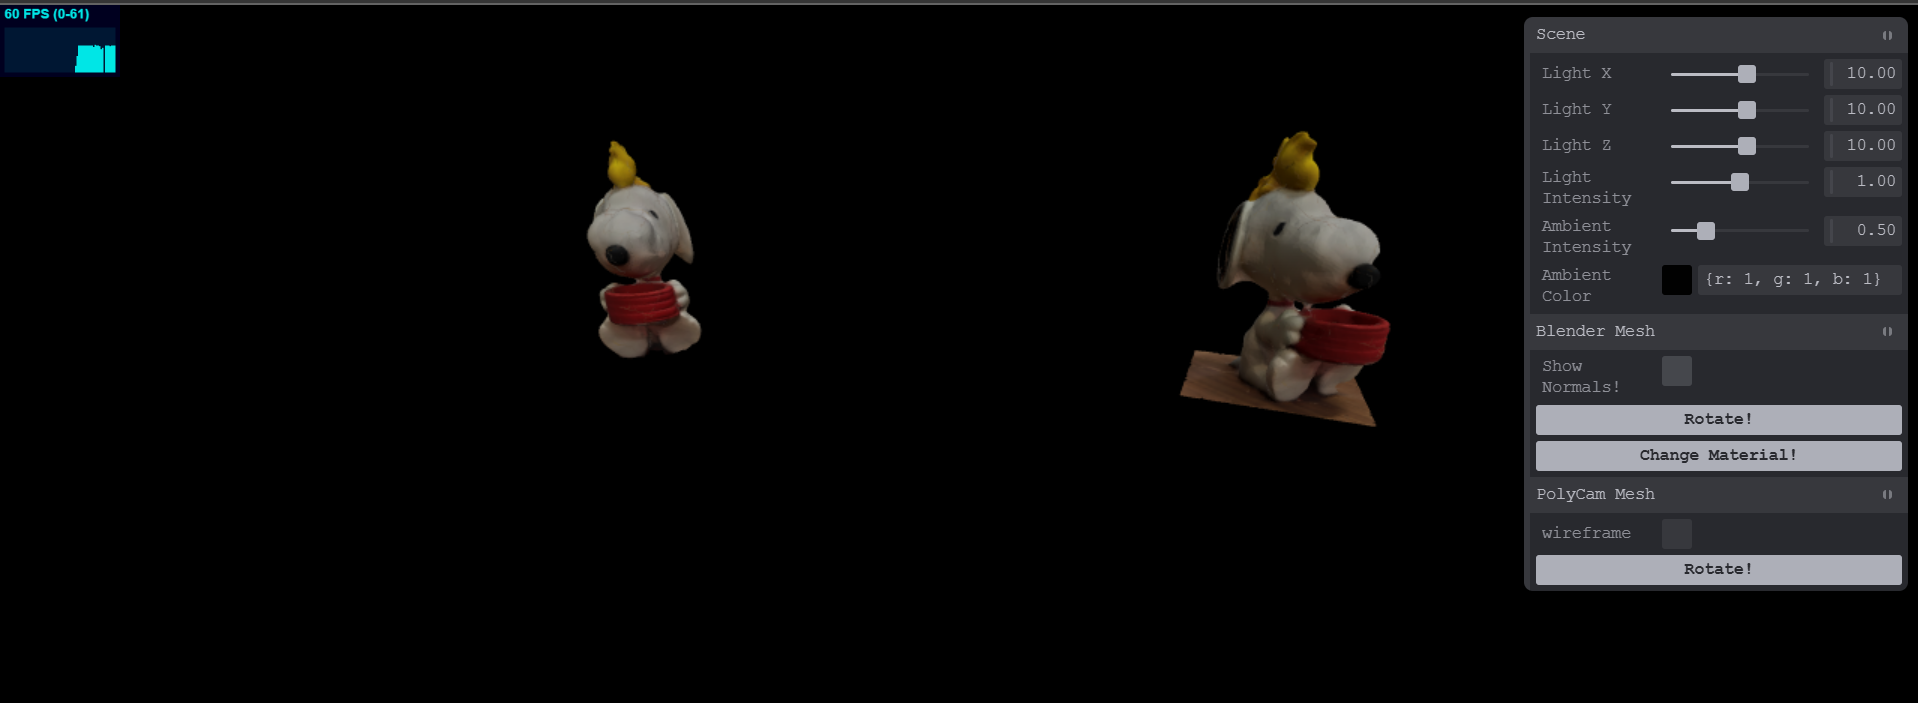
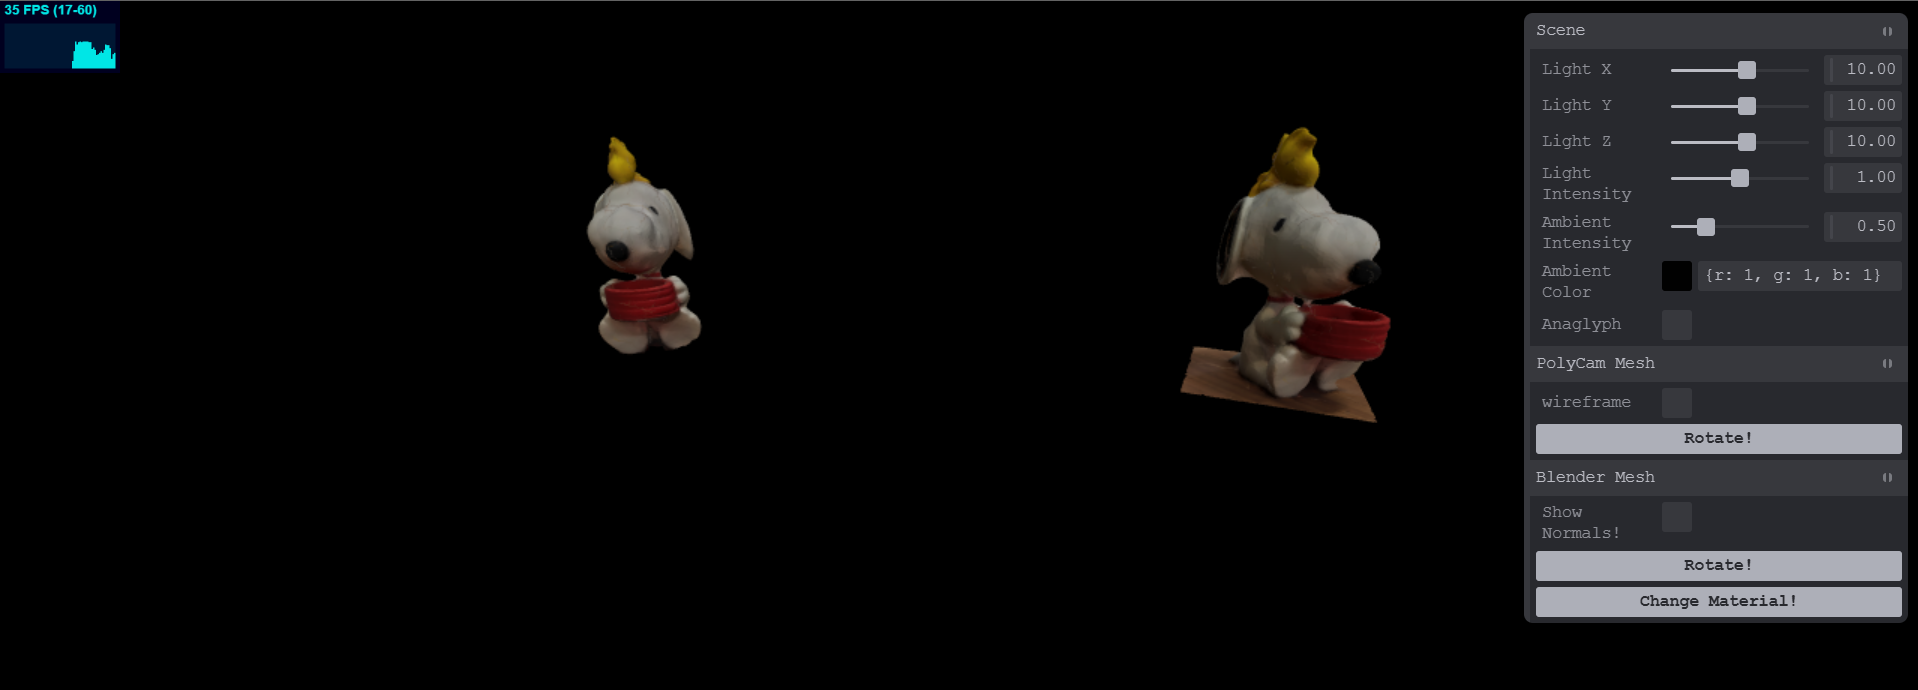
If applied, this commit will fix the issues

diff --git a/05/index.html b/05/index.html
@@ -34,13 +34,16 @@
         import { GLTFLoader } from 'three/addons/loaders/GLTFLoader.js';
         import { Pane } from 'https://cdn.jsdelivr.net/npm/tweakpane@4.0.5/dist/tweakpane.min.js';
         import { VertexNormalsHelper } from 'three/addons/helpers/VertexNormalsHelper.js';
+        import { AnaglyphEffect } from 'three/addons/effects/AnaglyphEffect.js';
 
-        let scene, camera, renderer, controls, stats;
+        let scene, camera, renderer, controls, stats, anaglyphEffect;
 
         stats = new Stats();
         document.body.appendChild(stats.domElement);
 
+        // Scene settings
         window['SCENE'] = {
+            'anaglyph': false, // Default state for anaglyph rendering
             'original': null,
             'rotate_original': false,
             'original_target_angle': 0,
@@ -69,8 +72,10 @@
         };
 
         window.onload = function () {
+            // Initialize the Scene
             scene = new THREE.Scene();
 
+            // Camera
             const fov = 75;
             const aspect = window.innerWidth / window.innerHeight;
             const near = 0.1;
@@ -78,12 +83,19 @@
             camera = new THREE.PerspectiveCamera(fov, aspect, near, far);
             camera.position.set(75, 75, 150);
 
+            // Renderer
             renderer = new THREE.WebGLRenderer({ antialias: true });
             renderer.setSize(window.innerWidth, window.innerHeight);
             document.body.appendChild(renderer.domElement);
 
+            // Anaglyph Effect
+            anaglyphEffect = new AnaglyphEffect(renderer);
+            anaglyphEffect.setSize(window.innerWidth, window.innerHeight);
+
+            // Controls
             controls = new OrbitControls(camera, renderer.domElement);
 
+            // Lighting
             const ambientLight = new THREE.AmbientLight(0xffffff, 0.5);
             scene.add(ambientLight);
 
@@ -91,6 +103,7 @@
             directionalLight.position.set(10, 10, 10);
             scene.add(directionalLight);
 
+            // Tweakpane UI
             const pane = new Pane();
             const sceneUI = pane.addFolder({ title: 'Scene' });
             sceneUI.addBinding(directionalLight.position, 'x', { min: -100, max: 100, label: 'Light X' });
@@ -100,6 +113,10 @@
             sceneUI.addBinding(ambientLight, 'intensity', { min: 0, max: 2, label: 'Ambient Intensity' });
             sceneUI.addBinding(ambientLight, 'color', { view: 'color', label: 'Ambient Color' });
 
+            // Anaglyph Toggle
+            sceneUI.addBinding(window.SCENE, 'anaglyph', { label: 'Anaglyph' });
+
+            // Load GLTF Models
             const loadpoly = new GLTFLoader();
             loadpoly.load('original.glb', function (gltf) {
                 const original = gltf.scene.children[0];
@@ -127,14 +144,12 @@
 
                 scene.add(gltf.scene);
 
-                const helper = new VertexNormalsHelper(snoopy, 0.2, 'blue'); 
+                const helper = new VertexNormalsHelper(snoopy, 0.2, 'blue');
                 helper.visible = false;
                 scene.add(helper);
 
-                // Link helper to Snoopy in SCENE object
                 window.SCENE.snoopy.helper = helper;
 
-                // Create Snoopy UI
                 const snoopyUI = pane.addFolder({ title: 'Blender Mesh' });
                 snoopyUI.addBinding(helper, 'visible', { label: 'Show Normals!' });
                 snoopyUI.addButton({ title: 'Rotate!' }).on('click', window.SCENE.do_rotate_snoopy);
@@ -151,6 +166,7 @@
             requestAnimationFrame(animate);
             stats.update();
 
+            // Rotate Models
             if (window.SCENE.original && window.SCENE.rotate_original) {
                 const targetQuaternion = new THREE.Quaternion().setFromAxisAngle(new THREE.Vector3(0, 1, 0), window.SCENE.original_target_angle);
                 window.SCENE.original.quaternion.slerp(targetQuaternion, 0.01);
@@ -166,13 +182,17 @@
                     window.SCENE.rotate_snoopy = false;
                 }
 
-                // Update the normals helper for Snoopy
                 if (window.SCENE.snoopy.helper) {
                     window.SCENE.snoopy.helper.update();
                 }
             }
 
-            renderer.render(scene, camera);
+            if (window.SCENE.anaglyph) {
+                anaglyphEffect.render(scene, camera);
+            } else {
+                renderer.render(scene, camera);
+            }
+
             controls.update();
         }
 
@@ -180,8 +200,13 @@
             camera.aspect = window.innerWidth / window.innerHeight;
             camera.updateProjectionMatrix();
             renderer.setSize(window.innerWidth, window.innerHeight);
+            anaglyphEffect.setSize(window.innerWidth, window.innerHeight);
         }
     </script>
 </head>
 
+<body>
+</body>
+
 </html>
+
